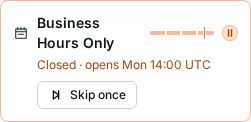
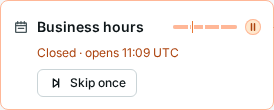
docs: schedules-held shot (desktop/phone x light/dark, mock mode)

diff --git a/content/docs/gates/schedules.md b/content/docs/gates/schedules.md
@@ -147,7 +147,7 @@ business-hours   Allow    false    1          3h
 
 While the window is closed, the dashboard holds the rollout and names the schedule, its hours, and when automatic deploys resume.
 
-![The Business Hours Only gate on the Gates tab of a production rollout: closed and holding, it opens Monday at 14:00 UTC, with the allowed hours drawn as a bar and a Skip once button](/images/docs/gates/schedules-held.png)
+![The Business hours deploy-window gate on the Gates tab of payout-api in production: closed and holding until it opens at 11:09 UTC, with the allowed hours drawn as a bar and a Skip once button](/images/docs/gates/schedules-held.png)
 
 `status.activeRules` lists the rules that match now and `status.nextTransition` says when the schedule next opens or closes.
 
